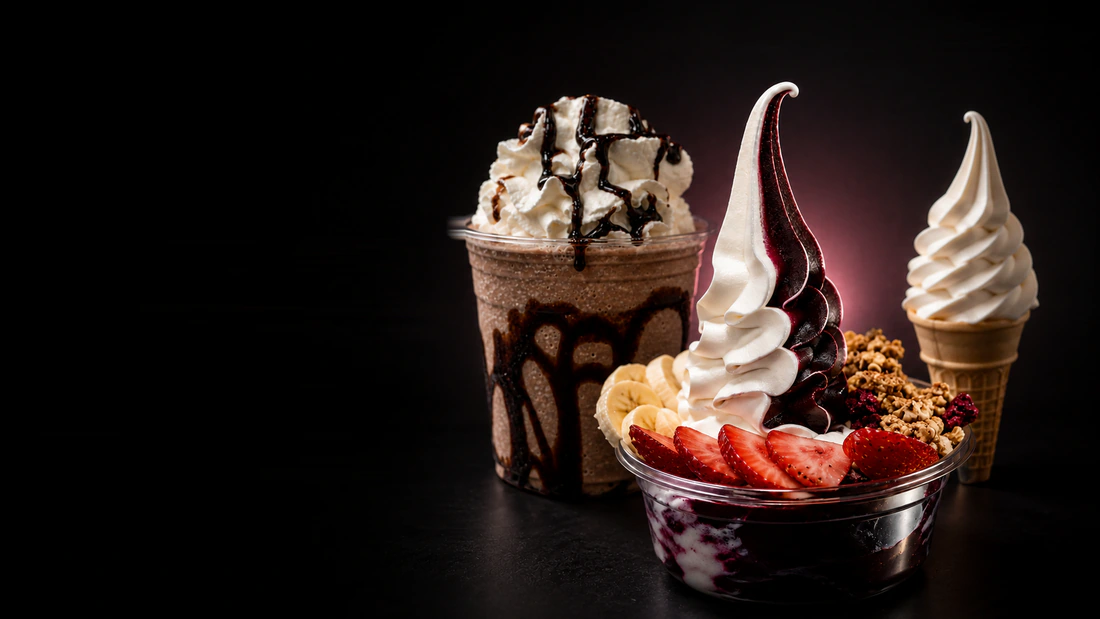
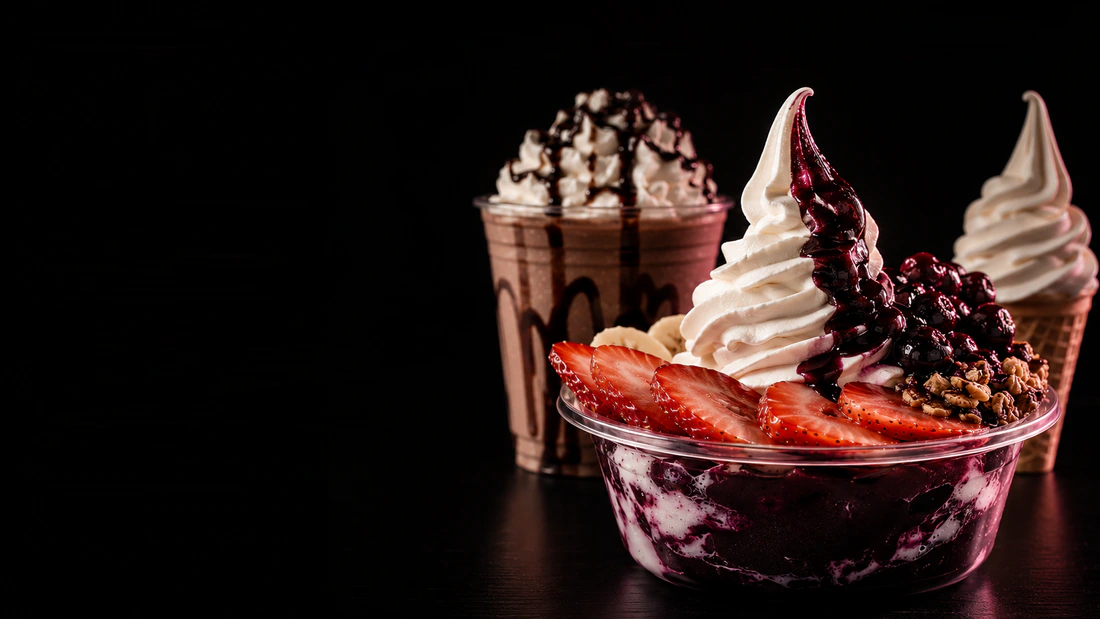
Rebuild the hero from the new comp
New photograph, new headline. The comp's baked-in type is lifted out the
same way as before -- threshold well above the near-black field, dilate
from the glyph cores to catch the antialiased halo, then interpolate
across each masked run -- so the live text sits on a clean plate. This
comp made that easier than the last one: its left field is flat black
(0-3 levels) rather than a 0-7 gradient, so there is no falloff to
preserve and nothing for the encoder to band. Verified the headline,
"to crave" and button rows all drop to 0-1 while the rows that were
already clean come through untouched.

Copy follows the comp: "Made / to crave." with the rose full stop, the
flavour run replacing the prose line, and a single Explore Desserts
button. The headline takes the comp's warm ivory rather than the site's
blush -- against the berries behind it, blush reads pink on pink.

The comp source now lives in the raw images folder rather than being read
out of Screenshots, where filenames get reused; two of the files in there
were overwritten today.

Two deliberate departures from the comp:
- The button stays a pill. The comp draws it as an ~8px rounded rect, in
  the nav too, but every other button on the site is a pill and changing
  only the hero would fight the nav directly above it.
- The Follow row stays. The comp has no socials, but it predates the
  request to put them on the hero.

Separator dots lead their word instead of trailing it, so the run wrapping
[…]

diff --git a/css/style.css b/css/style.css
@@ -406,10 +406,14 @@ body.ready .hero__bg img { animation: heroBreathe 12s ease-in-out 1.2s infinite;
   font-family: var(--serif); font-weight: 400;
   font-size: clamp(2.7rem, 5.1vw, 5rem);
   line-height: 1.06; letter-spacing: -.02em;
-  color: var(--blush);
+  /* the comp sets the headline in a warm ivory, a shade off the blush the
+     rest of the site uses on dark — worth keeping, it stops the type from
+     going pink against the berries behind it */
+  color: #EAD6C0;
   margin: 0;
 }
-.hero__title span { display: block; white-space: nowrap; }
+.hero__title > span { display: block; white-space: nowrap; }
+.hero__title .dot { font-style: normal; color: var(--rose); }
 
 .hero__sub {
   margin: clamp(1.5rem, 3vw, 2.2rem) 0 0;
@@ -417,6 +421,26 @@ body.ready .hero__bg img { animation: heroBreathe 12s ease-in-out 1.2s infinite;
   color: rgba(250,246,241,.88);
   font-size: clamp(.98rem, .94rem + .28vw, 1.12rem);
   line-height: 1.62;
+}
+
+/* the flavour run under the headline. A list, because that is what it is,
+   with the separators drawn rather than typed so they never wrap onto a
+   line of their own */
+.hero__flav {
+  margin: clamp(1.5rem, 3vw, 2.2rem) 0 0;
+  padding: 0; list-style: none;
+  display: flex; flex-wrap: wrap; align-items: center;
+  gap: .5rem 1.15rem;
+  font-size: clamp(.98rem, .94rem + .28vw, 1.12rem);
+  color: rgba(255,255,255,.92);
+}
+/* the separator leads its own word rather than trailing the one before it:
+   on a narrow phone the run wraps, and a trailing dot would be left
+   dangling at the end of a line looking like a typo */
+.hero__flav li { display: flex; align-items: center; gap: 1.15rem; }
+.hero__flav li + li::before {
+  content: ''; width: 5px; height: 5px; border-radius: 50%;
+  background: var(--rose); flex: none;
 }
 
 .hero__acts {
@@ -1023,6 +1047,8 @@ body.ready .h-plate {
   .hero__eyebrow { margin-bottom: 1.1rem; }
   .hero__title { font-size: clamp(2.35rem, 10.6vw, 3.5rem); line-height: 1.04; }
   .hero__sub { margin-top: 1.1rem; max-width: 30ch; font-size: .95rem; }
+  .hero__flav { margin-top: 1.1rem; font-size: .95rem; gap: .45rem .85rem; }
+  .hero__flav li { gap: .85rem; }
   .hero__acts { margin-top: 1.6rem; gap: 1.1rem; }
   /* on a phone the photograph sits behind the copy, shifted so the
      desserts fill the lower half rather than hiding behind the text */
@@ -1109,6 +1135,7 @@ body.ready .h-plate {
   .nav__links a, .foot__nav a, .mjump a { padding-block: .6rem; }
   .socs a { padding: .8rem; margin: -.8rem; }
   .btn--fill, .btn--line { padding-block: 1.5em; }
+  .btn--blush, .btn--edge { padding-block: 1.45em; }
   .btn--text { padding-top: 1.35em; padding-bottom: 1.25em; }
   .rbtn { width: 52px; height: 52px; }
 }

diff --git a/index.html b/index.html
@@ -78,18 +78,19 @@
       <p class="hero__eyebrow h-rv" style="--d:140ms">Frosty Haven &nbsp;—&nbsp; Palmerston North</p>
 
       <h1 class="hero__title">
-        <span class="h-mask" style="--d:240ms">Dessert worth</span>
-        <span class="h-mask" style="--d:360ms">making room for.</span>
+        <span class="h-mask" style="--d:240ms">Made</span>
+        <span class="h-mask" style="--d:360ms">to crave<i class="dot">.</i></span>
       </h1>
 
-      <p class="hero__sub h-rv" style="--d:560ms">
-        Açaí bowls, loaded shakes, soft serve,<br>
-        cakes &amp; more — made fresh, loaded your way.
-      </p>
+      <ul class="hero__flav h-rv" style="--d:560ms">
+        <li>Açaí</li>
+        <li>Shakes</li>
+        <li>Ice&nbsp;Cream</li>
+        <li>Cakes</li>
+      </ul>
 
       <div class="hero__acts h-rv" style="--d:680ms">
-        <a class="btn btn--blush" data-order href="#visit">Order Now</a>
-        <a class="btn btn--edge" href="menu.html">Explore Menu</a>
+        <a class="btn btn--blush" href="menu.html">Explore Desserts</a>
       </div>
 
       <div class="hero__social h-rv" style="--d:820ms">
